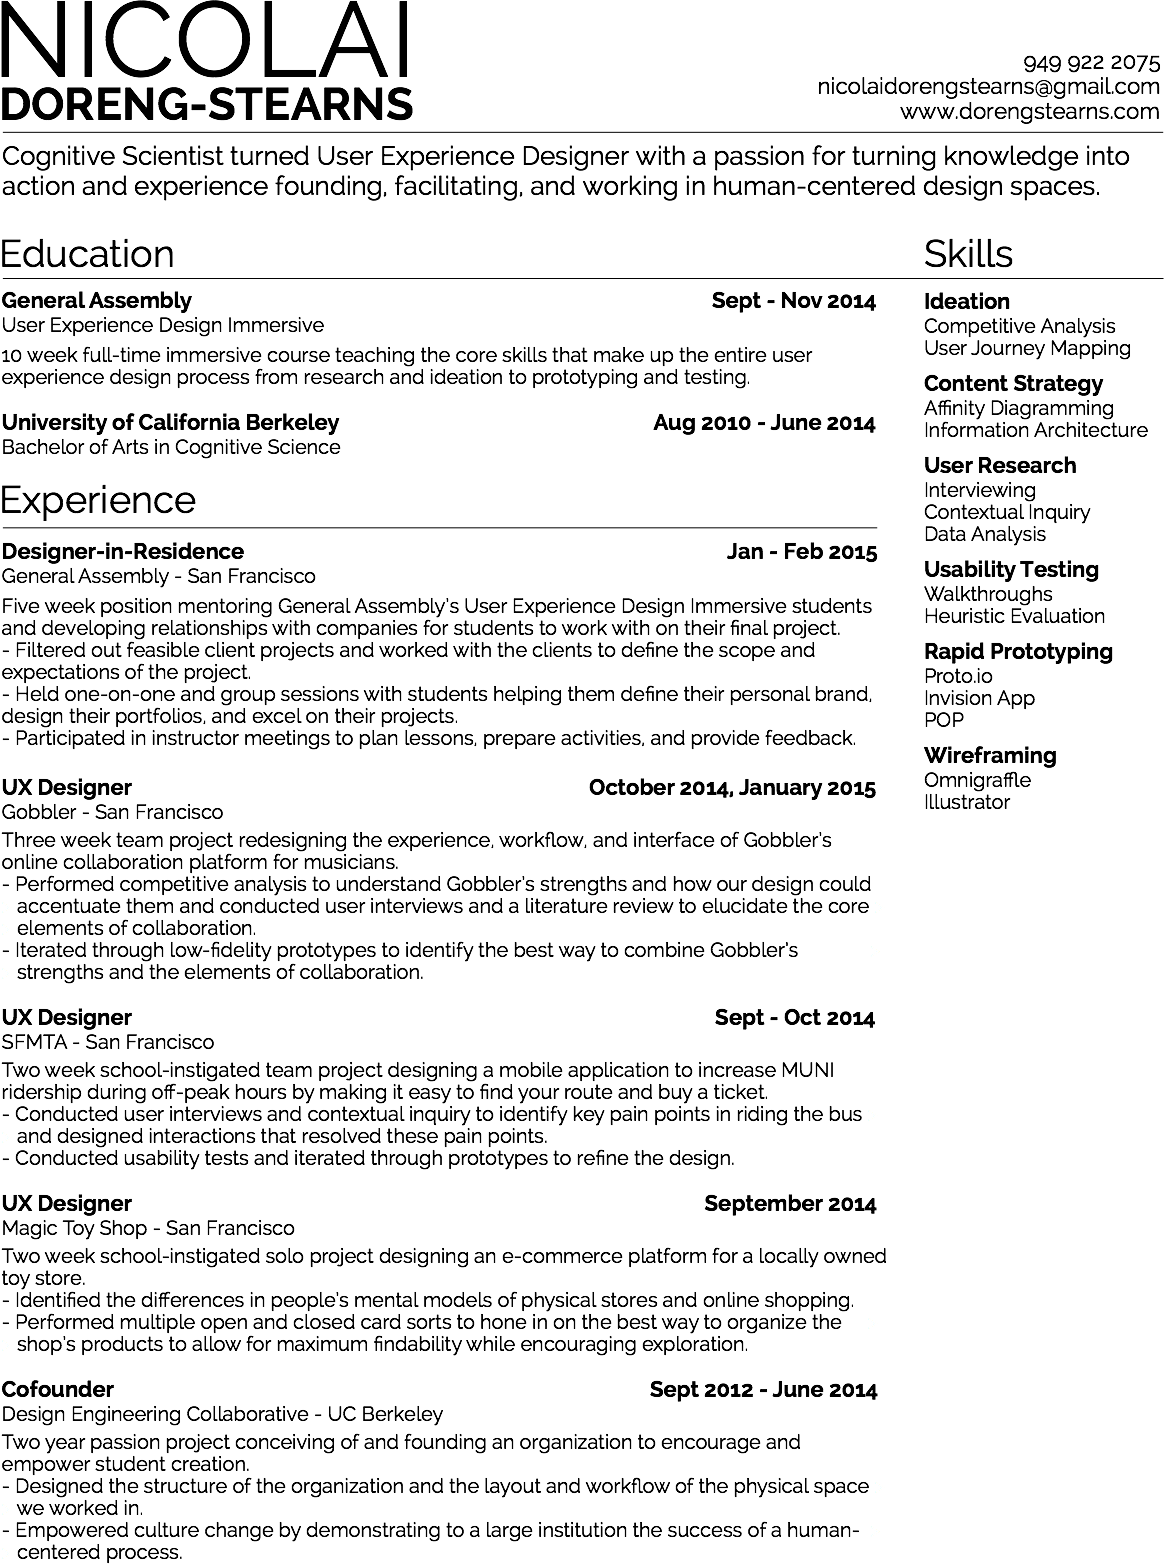
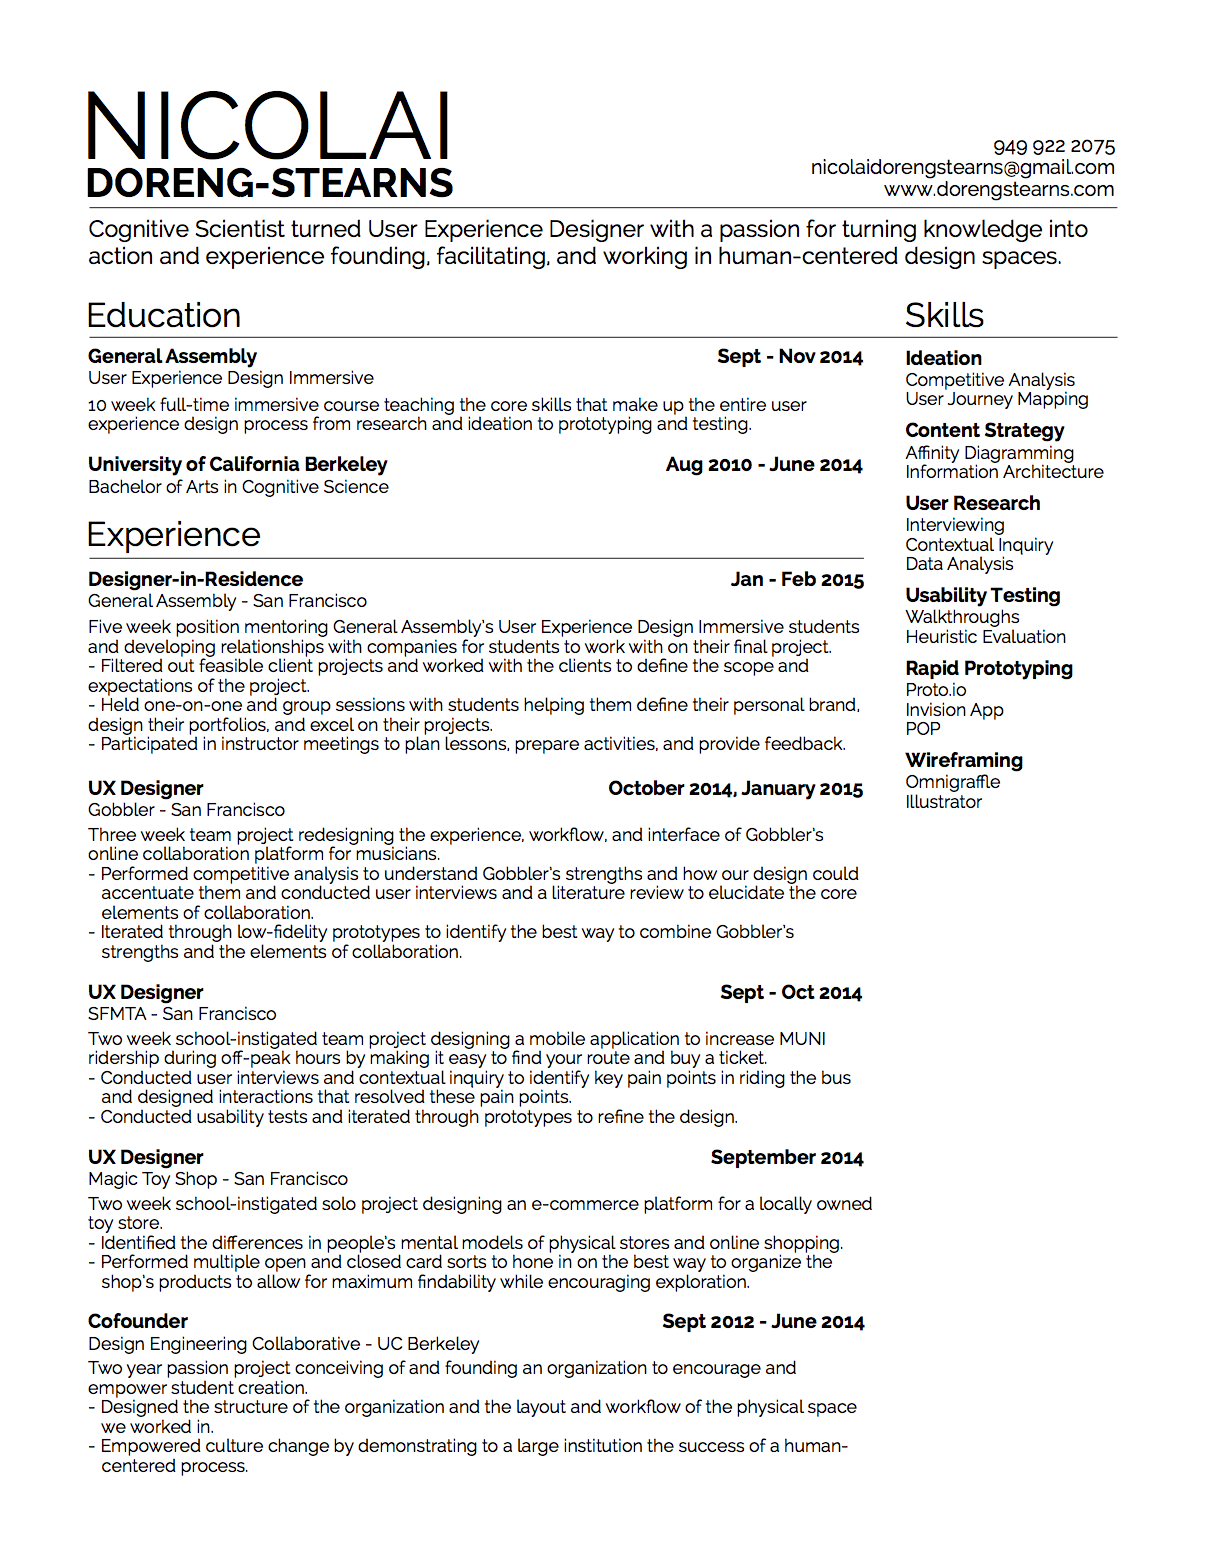
resume

Changed region(s): [[0.0, 0.0, 1.0, 1.0]]

diff --git a/resume.html b/resume.html
@@ -57,7 +57,7 @@
                         <a href="#portfolio">Portfolio</a>
                     </li>
                     <li>
-                        <a href="resume.html">Resume</a>
+                        <a href="img/Resume.pdf">Resume</a>
                     </li>
         
                 </ul>
@@ -72,7 +72,7 @@
         <div class="container">
             <div class="row">
                 <div class="col-lg-12">
-                    <img src="img/Resume.png"></img>
+                    <img src="img/Resume.png" style="max-width:100%; max-height:100%;"></img>
 
                 </div>
             </div>

diff --git a/Gobbler.html b/Gobbler.html
@@ -57,7 +57,7 @@
                         <a href="#portfolio">Portfolio</a>
                     </li>
                     <li>
-                        <a href="resume.html">Resume</a>
+                        <a href="Resume.pdf">Resume</a>
                     </li>
                 </ul>
             </div>

diff --git a/SFMTA Muni.html b/SFMTA Muni.html
@@ -57,7 +57,7 @@
                         <a href="#portfolio">Portfolio</a>
                     </li>
                     <li>
-                        <a href="resume.html">Resume</a>
+                        <a href="Resume.pdf">Resume</a>
                     </li>
                 </ul>
             </div>

diff --git a/The Magic Toy Shop.html b/The Magic Toy Shop.html
@@ -57,7 +57,7 @@
                         <a href="#portfolio">Portfolio</a>
                     </li>
                     <li>
-                        <a href="resume.html">Resume</a>
+                        <a href="Resume.pdf">Resume</a>
                     </li>
                 </ul>
             </div>

diff --git a/index.html b/index.html
@@ -57,7 +57,7 @@
                         <a href="#portfolio">Portfolio</a>
                     </li>
                     <li>
-                        <a href="resume.html">Resume</a>
+                        <a href="Resume.pdf">Resume</a>
                     </li>
         
                 </ul>
